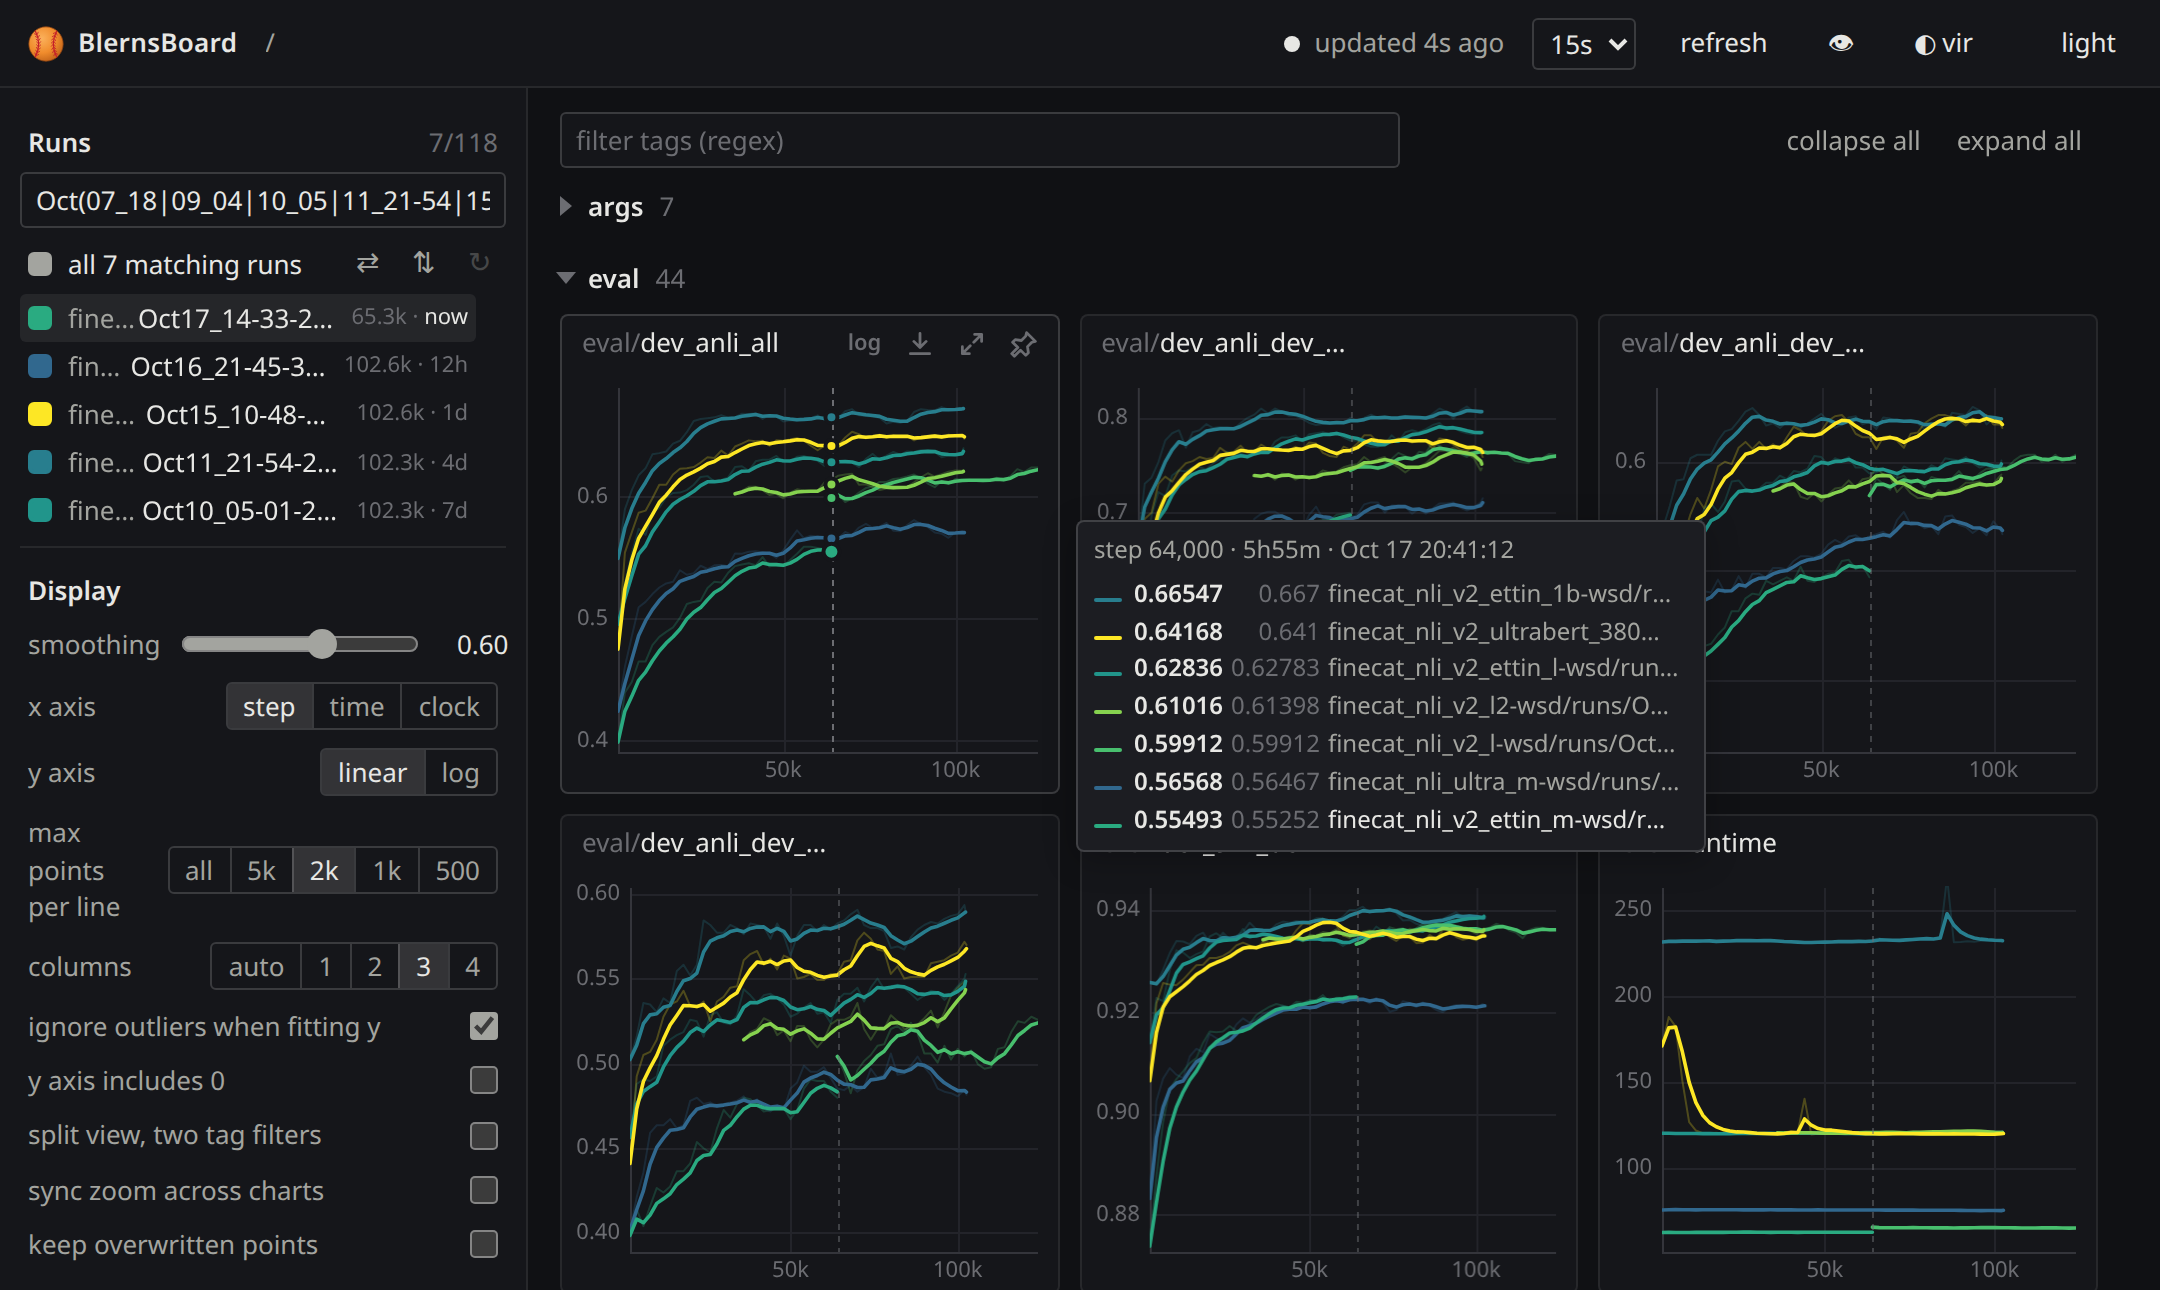
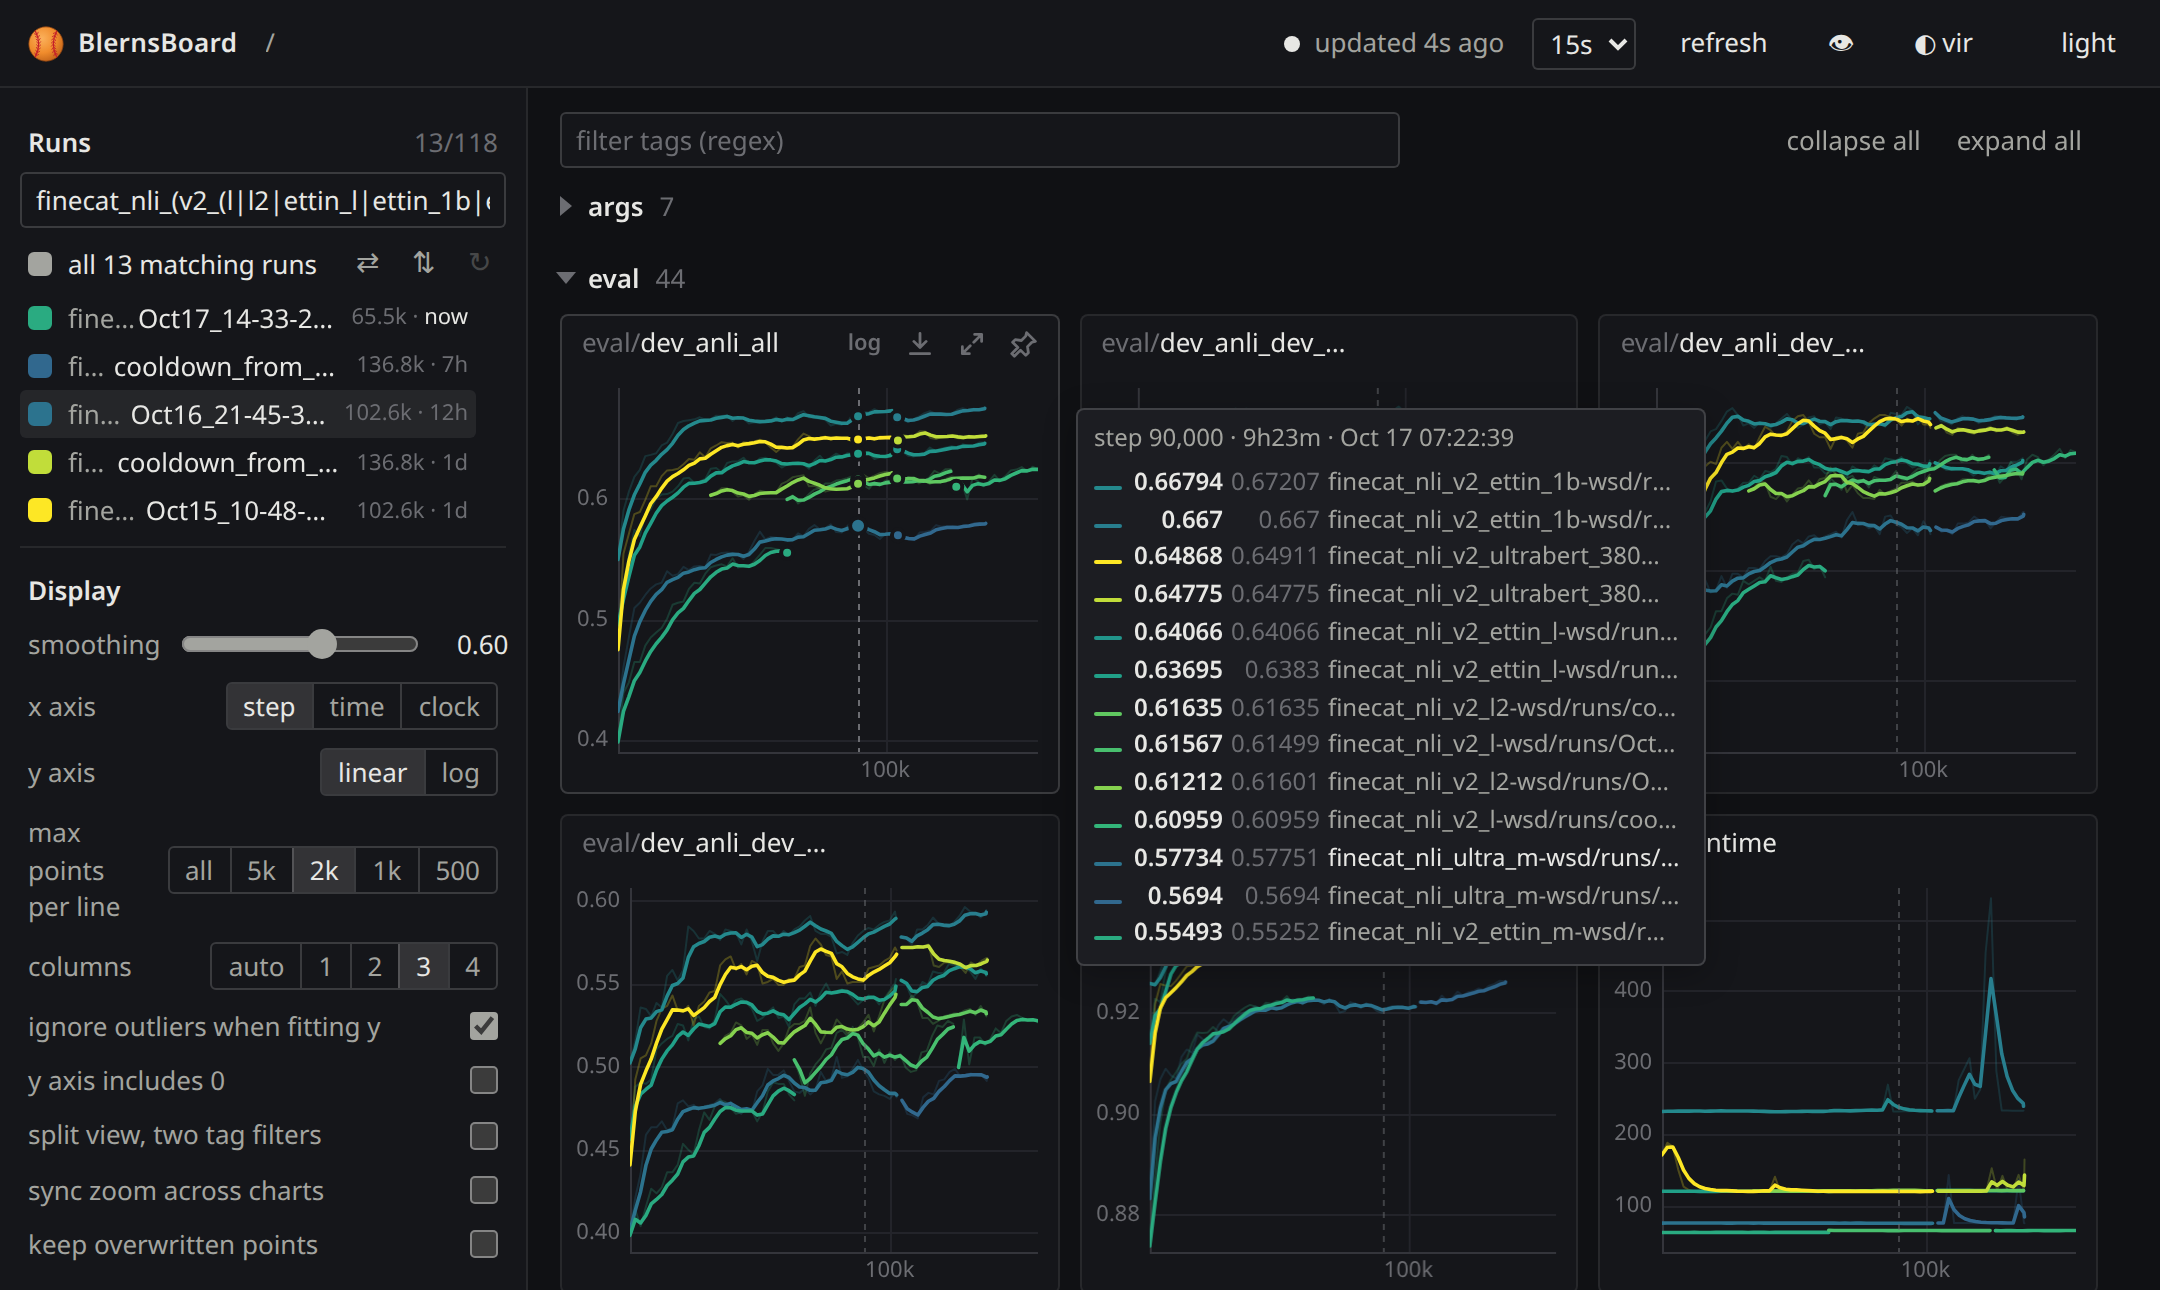
README screenshot: include the cooldown runs

diff --git a/README.md b/README.md
@@ -2,7 +2,7 @@
 
 A single HTML file that reads TensorBoard event logs
 
-![BlernsBoard in dark mode: the eval group open for seven NLI training runs coloured along the viridis ramp, other groups collapsed, with the readout beside a chart](docs/screenshot.png)
+![BlernsBoard in dark mode: the eval group open for seven NLI training runs and their cooldowns, coloured along the viridis ramp, other groups collapsed, with the readout beside a chart](docs/screenshot.png)
 
 ## Install
 
